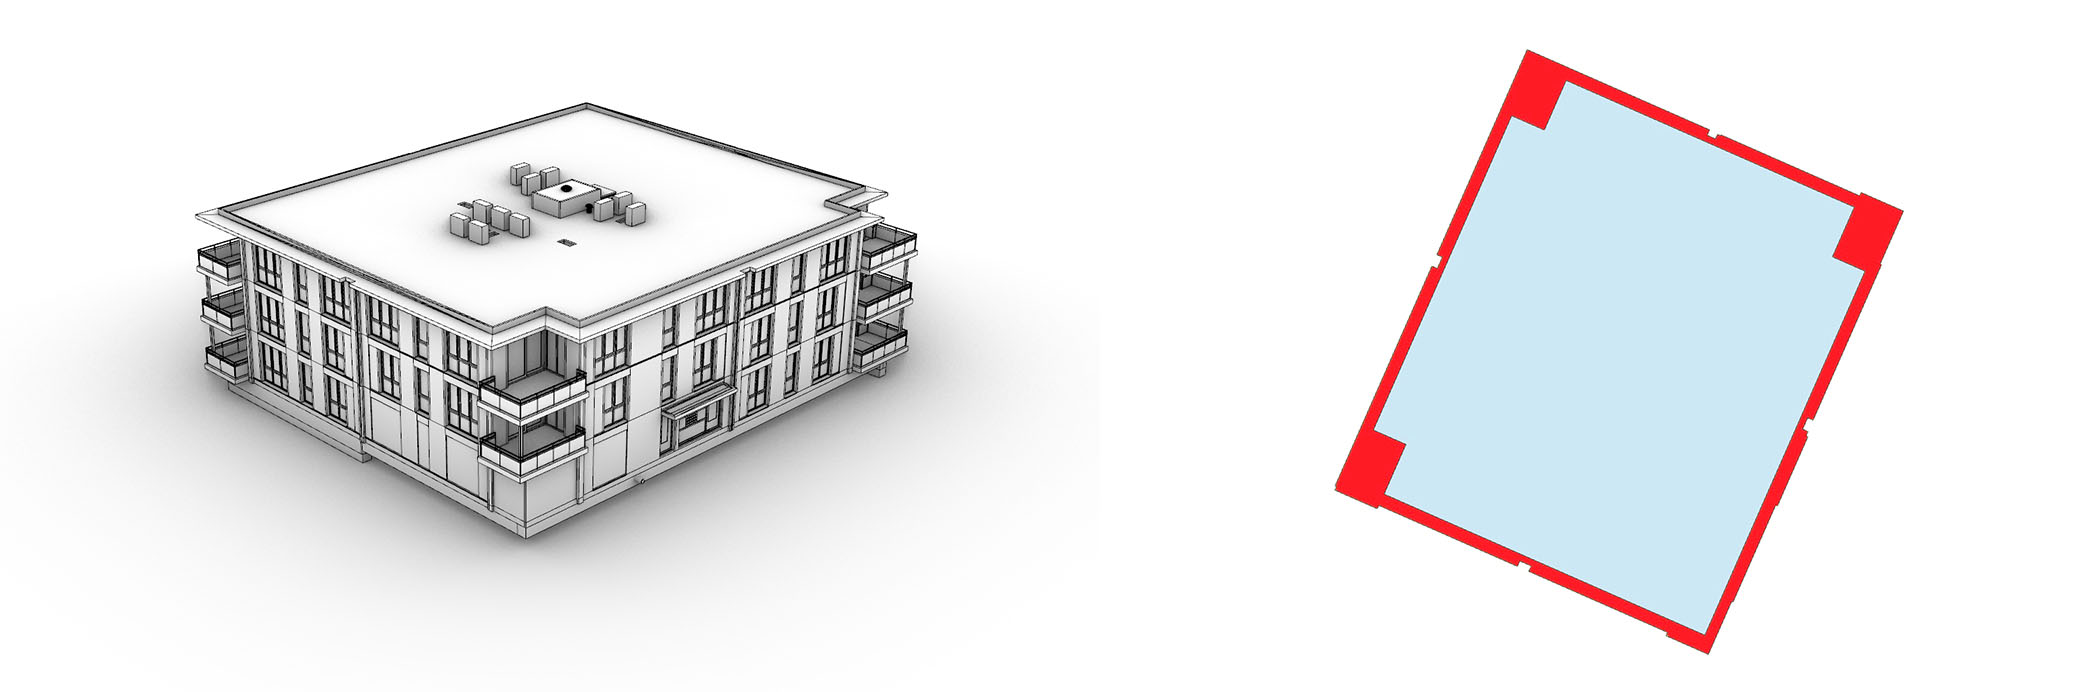
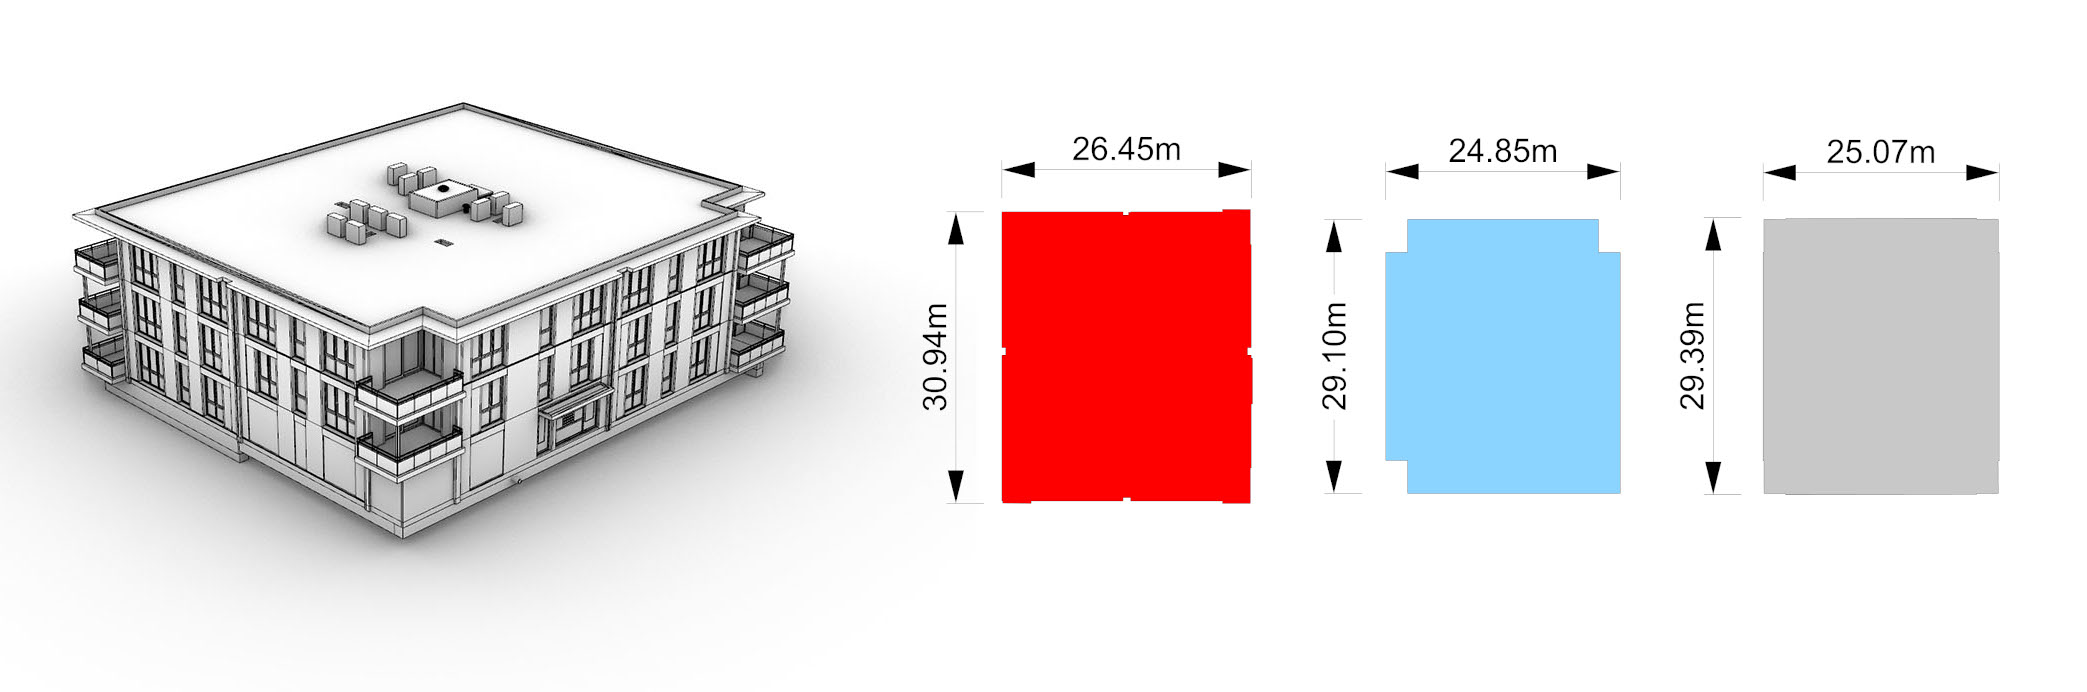
Update afbeelding BAG outline verschil met daadwerkelijke BAG polygoon

diff --git a/02 GEO BIM Informatielandschap.md b/02 GEO BIM Informatielandschap.md
@@ -353,7 +353,7 @@ De term "dakuitlijn" kan worden gebruikt voor een polygoon die de projectie van 
       <figcaption>
         <a class="self-link" href="#Verschil-tussen-roofedge-BAGvorm"></a>
         <span class="fig-title">
-        Het verschil tussen de polygoon gegenereerd op basis van BAG-richtlijnen en een daadwerkelijke dakuitlijn is goed zichtbaar bij een gebouw met balkons. Het gebouw (links) heeft een polygoon die gegenereerd is op basis van BAG richtlijnen (rechts in blauw) die kleiner is en een andere vorm heeft dan de dakuitlijn (rechts in rood). Dit BIM model is gebruikt voor [ILS voor ruimten in de omgevingswet](https://www.digigo.nu/ils-voor-ruimten/) gemaakt door de gemeente Rotterdam en Kuiper compagnons. De dakuitlijn en polygoon op basis van BAG-richtlijnen zijn gegenereerd door de IfcEnvelopeExtractor met het BIM model als input. NB: de polygoon die gegenereerd is op basis van BAG richtlijnen valt niet samen met de werkelijke BAG polygoon. Dit moet nog nader worden onderzocht.
+        Het verschil tussen de BAG polygoon en een dakuitlijn is goed zichtbaar bij een gebouw met balkons. Het gebouw (links) heeft een BAG polygoon (rechts in grijs) die kleiner is en een andere vorm heeft dan de dakuitlijn (rechts in rood). Als de regels voor het opstellen van een BAG vorm die wij hebben gevonden worden gevolgd, zoals bij de BAG output van de IfcEnvelopeExtractor, ontstaat er echter een andere polygoon (rechts in blauw) dan de daadwerkelijke BAG vorm van de 2DBAG database (rechts in grijs). Dit voorbeeld BIM model is gebruikt voor [ILS voor ruimten in de omgevingswet](https://www.digigo.nu/ils-voor-ruimten/) gemaakt door de gemeente Rotterdam en Kuiper compagnons.
         </span>
       </figcaption>
 </figure>
